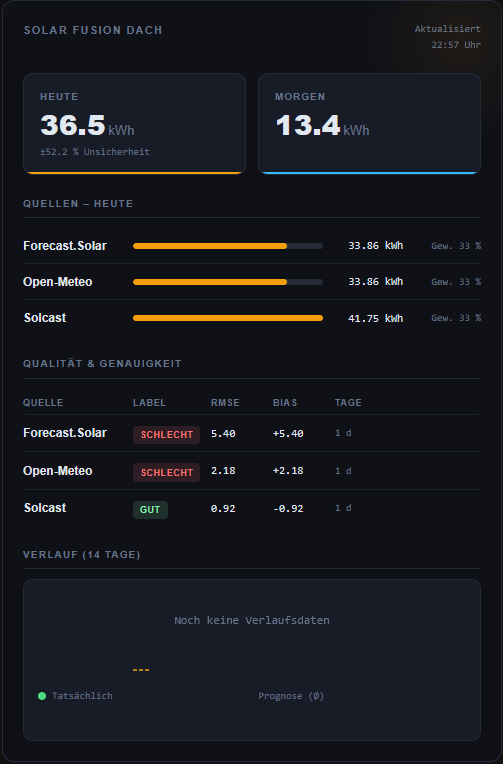
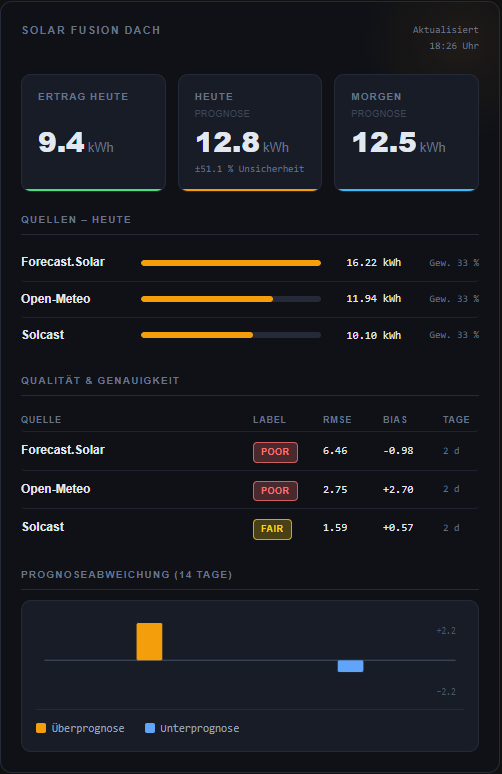
Rework design and chart (#6)

diff --git a/dist/solar-fusion-card.js b/dist/solar-fusion-card.js
@@ -9,15 +9,55 @@
  *
  * Card YAML – only one entity required:
  *   type: custom:solar-fusion-card
- *   entity: sensor.solar_fusion_dach_fused_today
+ *   entity: sensor.solar_fusion_dach_forecast_today
  *   title: Solar Fusion Roof   # optional
  */
 
-const QUALITY_COLORS = {
-  "Exzellent": "#4ade80", "Excellent": "#4ade80",
-  "Gut":       "#86efac", "Good":      "#86efac",
-  "Mittel":    "#facc15", "Fair":      "#facc15",
-  "Schlecht":  "#f87171", "Poor":      "#f87171",
+const QUALITY = {
+  "EXCELLENT": { color: "#4ade80", label: "Excellent" },
+  "GOOD":      { color: "#86efac", label: "Good"      },
+  "FAIR":      { color: "#facc15", label: "Fair"      },
+  "POOR":      { color: "#f87171", label: "Poor"      },
+};
+const QUALITY_ALIAS = {
+  "EXZELLENT": "EXCELLENT",
+  "GUT": "GOOD",
+  "OKAY": "FAIR", "MITTEL": "FAIR",
+  "BAD": "POOR", "SCHLECHT": "POOR",
+};
+
+// Converts a #rrggbb hex color to rgba(r,g,b,alpha)
+function hexRgba(hex, alpha) {
+  const r = parseInt(hex.slice(1, 3), 16);
+  const g = parseInt(hex.slice(3, 5), 16);
+  const b = parseInt(hex.slice(5, 7), 16);
+  return `rgba(${r},${g},${b},${alpha})`;
+}
+
+// Built-in English fallback – used when locale JSON files are unavailable
+const DEFAULT_LOCALE = {
+  "entity_not_found": "Entity not found:",
+  "default_title":    "Solar Fusion",
+  "updated":          "Updated",
+  "time_suffix":      "",
+  "today":            "Today",
+  "tomorrow":         "Tomorrow",
+  "uncertainty":      "% uncertainty",
+  "sources_today":    "Sources – Today",
+  "weight":           "Wgt.",
+  "quality_accuracy": "Quality & Accuracy",
+  "col_source":       "Source",
+  "col_label":        "Label",
+  "col_rmse":         "RMSE",
+  "col_bias":         "Bias",
+  "col_days":         "Days",
+  "history_title":    "Forecast Deviation (14 days)",
+  "no_history":       "No history data yet",
+  "hero_actual":      "Today's Yield",
+  "forecast":         "Forecast",
+  "over_forecast":    "Over-forecast",
+  "under_forecast":   "Under-forecast",
+  "days_short":       "d",
 };
 
 const SOURCE_SHORT = {
@@ -26,12 +66,6 @@ const SOURCE_SHORT = {
   "Solcast PV Forecast":       "Solcast",
 };
 
-// Maps source display name → entity ID suffix for quality sensors
-const SOURCE_ENTITY_SUFFIX = {
-  "Forecast.Solar":            "forecast_solar_rmse",
-  "Open-Meteo Solar Forecast": "open_meteo_solar_forecast_rmse",
-  "Solcast PV Forecast":       "solcast_pv_forecast_rmse",
-};
 
 const STYLES = `
   @import url('https://fonts.googleapis.com/css2?family=DM+Mono:wght@400;500&family=Syne:wght@400;600;700;800&display=swap');
@@ -87,14 +121,15 @@ const STYLES = `
   .updated { font-family: var(--sf-mono); font-size: 10px; color: var(--sf-muted); text-align: right; }
 
   /* Hero */
-  .hero { display: grid; grid-template-columns: 1fr 1fr; gap: 12px; margin-bottom: 20px; }
+  .hero { display: grid; grid-template-columns: repeat(3, 1fr); gap: 12px; margin-bottom: 20px; }
   .hero-card {
     background: var(--sf-surface); border: 1px solid var(--sf-border);
     border-radius: 10px; padding: 14px 16px; position: relative; overflow: hidden;
   }
   .hero-card:hover { border-color: #3a4255; }
   .hero-bar { position: absolute; bottom: 0; left: 0; right: 0; height: 2px; }
-  .hero-label { font-size: 10px; font-weight: 600; letter-spacing: 0.1em; text-transform: uppercase; color: var(--sf-muted); margin-bottom: 6px; }
+  .hero-label { font-size: 10px; font-weight: 600; letter-spacing: 0.1em; text-transform: uppercase; color: var(--sf-muted); margin-bottom: 2px; }
+  .hero-sublabel { font-size: 9px; font-weight: 400; letter-spacing: 0.05em; text-transform: uppercase; color: var(--sf-muted); opacity: 0.5; margin-bottom: 6px; }
   .hero-value { font-size: 28px; font-weight: 800; line-height: 1; }
   .hero-unit { font-size: 13px; font-weight: 400; color: var(--sf-muted); margin-left: 3px; }
   .hero-unc { font-family: var(--sf-mono); font-size: 10px; color: var(--sf-muted); margin-top: 6px; }
@@ -108,7 +143,7 @@ const STYLES = `
   /* Sources */
   .sources { margin-bottom: 20px; }
   .source-row {
-    display: grid; grid-template-columns: minmax(70px, max-content) 1fr 70px 68px;
+    display: grid; grid-template-columns: 110px 1fr 70px 68px;
     align-items: center; gap: 10px; padding: 8px 0; border-bottom: 1px solid #1e2330;
     border-radius: 4px;
   }
@@ -122,12 +157,13 @@ const STYLES = `
   /* Quality table */
   .q-section { margin-bottom: 20px; }
   .q-header, .q-row {
-    display: grid; grid-template-columns: 1fr 60px 50px 50px auto;
+    display: grid; grid-template-columns: 1fr 60px 50px 50px 36px;
     align-items: center; gap: 10px; padding: 7px 0; border-bottom: 1px solid #1e2330;
     border-radius: 4px;
   }
   .q-row:last-child { border-bottom: none; }
   .q-header { font-size: 9px; font-weight: 700; letter-spacing: 0.08em; text-transform: uppercase; color: var(--sf-muted); padding-bottom: 4px; }
+  .q-col-label { text-align: left; }
   .q-name { font-size: 12px; font-weight: 600; white-space: nowrap; }
   .q-val { font-family: var(--sf-mono); font-size: 11px; }
   .q-days { font-family: var(--sf-mono); font-size: 10px; color: var(--sf-muted); }
@@ -138,10 +174,10 @@ const STYLES = `
     background: var(--sf-surface); border: 1px solid var(--sf-border);
     border-radius: 10px; padding: 14px;
   }
-  .spark-wrap svg { width: 100%; height: 60px; display: block; }
-  .legend { display: flex; gap: 20px; margin-top: 12px; align-items: center; }
-  .legend-item { display: flex; align-items: center; gap: 6px; font-size: 10px; color: var(--sf-muted); font-family: var(--sf-mono); white-space: nowrap; }
-  .legend-dot { width: 8px; height: 8px; border-radius: 50%; flex-shrink: 0; }
+  .spark-wrap > svg { width: 100%; height: 80px; display: block; }
+  .legend { display: flex; gap: 20px; margin-top: 14px; padding-top: 10px; border-top: 1px solid var(--sf-border); align-items: center; }
+  .legend-item { display: flex; align-items: center; gap: 6px; font-size: 11px; color: #94a3b8; font-family: var(--sf-mono); white-space: nowrap; }
+  .legend-dot { width: 10px; height: 10px; border-radius: 50%; flex-shrink: 0; }
 
   /* ── Responsive breakpoints via container queries ─────────────────── */
 
@@ -155,9 +191,14 @@ const STYLES = `
     .q-header, .q-row { grid-template-columns: 1fr 58px 46px 46px; }
   }
 
+  /* Narrow hero: 3 → 2 columns */
+  @container (max-width: 360px) {
+    .hero { grid-template-columns: 1fr 1fr; }
+  }
+
   /* Very narrow (~260 px): stack hero, drop kWh + bias columns */
   @container (max-width: 260px) {
-    .hero          { grid-template-columns: 1fr; }
+    .hero          { grid-template-columns: 1fr 1fr; }
     .hero-value    { font-size: 22px; }
     .source-kwh    { display: none; }
     .source-row    { grid-template-columns: minmax(0, 1fr) 1fr; }
@@ -192,14 +233,14 @@ class SolarFusionCard extends HTMLElement {
 
   // Returns a translated string, falling back to the key itself.
   _t(key) {
-    return this._locale[key] ?? key;
+    return this._locale[key] ?? DEFAULT_LOCALE[key] ?? key;
   }
 
   setConfig(config) {
     if (!config.entity) throw new Error("'entity' is required");
     this._config = config;
     // Derive prefix: "sensor.solar_fusion_dach_fused_today" → "sensor.solar_fusion_dach"
-    this._prefix = config.entity.replace(/_fused_today$/, "");
+    this._prefix = config.entity.replace(/_forecast_today$/, "");
     this._render();
   }
 
@@ -232,11 +273,6 @@ class SolarFusionCard extends HTMLElement {
     });
   }
 
-  _qualityEntity(sourceName) {
-    const suffix = SOURCE_ENTITY_SUFFIX[sourceName];
-    return suffix ? `${this._prefix}_${suffix}` : null;
-  }
-
   _fmt(v, decimals = 2) {
     if (v === null || v === undefined) return "—";
     return Number(v).toFixed(decimals);
@@ -251,37 +287,54 @@ class SolarFusionCard extends HTMLElement {
     const points = Object.entries(byDate)
       .sort(([a], [b]) => a.localeCompare(b))
       .slice(-14)
-      .map(([, v]) => ({
-        forecast: v.forecasts.reduce((a, b) => a + b, 0) / (v.forecasts.length || 1),
-        actual: v.actual,
+      .map(([date, v]) => ({
+        date,
+        deviation: v.forecasts.reduce((a, b) => a + b, 0) / (v.forecasts.length || 1) - v.actual,
       }));
 
-    if (points.length < 2) {
+    if (points.length < 1) {
       return `<text x="50%" y="50%" text-anchor="middle" fill="#64748b"
         font-size="11" font-family="DM Mono,monospace">${this._t("no_history")}</text>`;
     }
 
-    const W = 400, H = 60, P = 8;
-    const maxV = Math.max(...points.map(p => Math.max(p.forecast, p.actual)), 0.1);
-    const sx = i => P + (i / (points.length - 1)) * (W - P * 2);
-    const sy = v => H - P - (v / maxV) * (H - P * 2);
-    const fPath = points.map((p, i) => `${i ? "L" : "M"}${sx(i).toFixed(1)},${sy(p.forecast).toFixed(1)}`).join(" ");
-    const aPath = points.map((p, i) => `${i ? "L" : "M"}${sx(i).toFixed(1)},${sy(p.actual).toFixed(1)}`).join(" ");
-    const dots  = points.map((p, i) =>
-      `<circle cx="${sx(i).toFixed(1)}" cy="${sy(p.actual).toFixed(1)}" r="2.5" fill="#4ade80"/>`
-    ).join("");
-    return `
-      <path d="${fPath}" stroke="#f59e0b" stroke-width="1.5" fill="none" stroke-dasharray="4 2" opacity="0.7"/>
-      <path d="${aPath}" stroke="#4ade80" stroke-width="2" fill="none"/>
-      ${dots}`;
+    const W = 400, H = 80;
+    const CT = 6, CB = 62;           // chart area top / bottom y
+    const midY = (CT + CB) / 2;      // zero line y = 34
+    const maxDev = Math.max(...points.map(p => Math.abs(p.deviation)), 0.5);
+    const scale = (midY - CT) / maxDev;
+
+    const n = points.length;
+    const slotW = (W - 24) / n;
+    const barW = Math.max(3, Math.min(slotW * 0.75, 24));
+
+    const bars = points.map((p, i) => {
+      const cx  = 12 + i * slotW + slotW / 2;
+      const h   = Math.abs(p.deviation) * scale;
+      const y   = p.deviation >= 0 ? midY - h : midY;
+      const col = p.deviation >= 0 ? "#f59e0b" : "#60a5fa";
+      return `<rect x="${(cx - barW / 2).toFixed(1)}" y="${y.toFixed(1)}" width="${barW.toFixed(1)}" height="${Math.max(h, 1).toFixed(1)}" fill="${col}" rx="1.5"/>`;
+    }).join("");
+
+    const zero = `<line x1="8" y1="${midY}" x2="${W - 8}" y2="${midY}" stroke="#3a4255" stroke-width="1"/>`;
+
+    const scaleLabels = `
+      <text x="${W - 8}" y="${CT + 8}" text-anchor="end" fill="#4b5563" font-size="8" font-family="DM Mono,monospace">+${maxDev.toFixed(1)}</text>
+      <text x="${W - 8}" y="${CB - 2}" text-anchor="end" fill="#4b5563" font-size="8" font-family="DM Mono,monospace">−${maxDev.toFixed(1)}</text>`;
+
+    const fmt = d => d.slice(5).replace("-", "/");
+    const dateLabels = `
+      <text x="12" y="${H - 4}" fill="#4b5563" font-size="8" font-family="DM Mono,monospace">${fmt(points[0].date)}</text>
+      ${points.length > 1 ? `<text x="${W - 12}" y="${H - 4}" text-anchor="end" fill="#4b5563" font-size="8" font-family="DM Mono,monospace">${fmt(points[points.length - 1].date)}</text>` : ""}`;
+
+    return zero + bars + scaleLabels + dateLabels;
   }
 
   _render() {
     if (!this._config || !this._hass) return;
 
-    const entityId   = this._config.entity;
-    const tomorrowId = `${this._prefix}_fused_tomorrow`;
-    const snapshotId = `${this._prefix}_morning_snapshot`;
+    const entityId   = this._config.entity;  // forecast_today – provides all attributes
+    const tomorrowId = `${this._prefix}_forecast_tomorrow`;
+    const actualId   = `${this._prefix}_diagnostics_pv_daily_production`;
 
     const mainState = this._hass.states[entityId];
     if (!mainState) {
@@ -319,11 +372,18 @@ class SolarFusionCard extends HTMLElement {
           <div class="updated">${this._t("updated")}<br>${updatedStr}${this._t("time_suffix")}</div>
         </div>
 
-        <!-- Hero: today + tomorrow -->
+        <!-- Hero: actual + today + tomorrow -->
         <div class="hero">
+          <div class="hero-card" data-entity="${actualId}">
+            <div class="hero-bar" style="background:#4ade80"></div>
+            <div class="hero-label">${this._t("hero_actual")}</div>
+            <div class="hero-sublabel" style="visibility:hidden">.</div>
+            <div class="hero-value">${this._fmt(parseFloat(this._hass.states[actualId]?.state) || null, 1)}<span class="hero-unit">kWh</span></div>
+          </div>
           <div class="hero-card" data-entity="${entityId}">
             <div class="hero-bar" style="background:var(--sf-accent)"></div>
             <div class="hero-label">${this._t("today")}</div>
+            <div class="hero-sublabel">${this._t("forecast")}</div>
             <div class="hero-value">${this._fmt(todayKwh, 1)}<span class="hero-unit">kWh</span></div>
             ${uncertainty != null
               ? `<div class="hero-unc">±${this._fmt(uncertainty, 1)} ${this._t("uncertainty")}</div>`
@@ -332,6 +392,7 @@ class SolarFusionCard extends HTMLElement {
           <div class="hero-card" data-entity="${tomorrowId}">
             <div class="hero-bar" style="background:var(--sf-accent2)"></div>
             <div class="hero-label">${this._t("tomorrow")}</div>
+            <div class="hero-sublabel">${this._t("forecast")}</div>
             <div class="hero-value">${this._fmt(tomorrowKwh, 1)}<span class="hero-unit">kWh</span></div>
           </div>
         </div>
@@ -340,18 +401,16 @@ class SolarFusionCard extends HTMLElement {
         ${sourceList.length ? `
         <div class="sources">
           <div class="section-title">${this._t("sources_today")}</div>
-          ${sourceList.map(([, s]) => {
-            const qEntity = this._qualityEntity(s.name);
-            return `
-            <div class="source-row"${qEntity ? ` data-entity="${qEntity}"` : ""}>
+          ${sourceList.map(([, s]) => `
+            <div class="source-row" data-entity="${entityId}">
               <div class="source-name">${SOURCE_SHORT[s.name] || s.name}</div>
               <div class="bar-wrap">
                 <div class="bar" style="width:${((s.today_kwh || 0) / maxKwh * 100).toFixed(1)}%"></div>
               </div>
               <div class="source-kwh">${this._fmt(s.today_kwh, 2)} kWh</div>
               <div class="source-weight">${s.weight != null ? this._t("weight") + " " + this._fmt(s.weight * 100, 0) + " %" : "—"}</div>
-            </div>`;
-          }).join("")}
+            </div>`
+          ).join("")}
         </div>` : ""}
 
         <!-- Quality table -->
@@ -359,18 +418,20 @@ class SolarFusionCard extends HTMLElement {
         <div class="q-section">
           <div class="section-title">${this._t("quality_accuracy")}</div>
           <div class="q-header">
-            <span>${this._t("col_source")}</span><span>${this._t("col_label")}</span><span>${this._t("col_rmse")}</span><span class="q-col-bias">${this._t("col_bias")}</span><span class="q-col-days">${this._t("col_days")}</span>
+            <span>${this._t("col_source")}</span><span class="q-col-label">${this._t("col_label")}</span><span>${this._t("col_rmse")}</span><span class="q-col-bias">${this._t("col_bias")}</span><span class="q-col-days">${this._t("col_days")}</span>
           </div>
           ${sourceList.map(([, s]) => {
-            const color   = QUALITY_COLORS[s.quality_label] || "#94a3b8";
+            const key    = (s.quality_label || "").toUpperCase();
+            const q      = QUALITY[QUALITY_ALIAS[key] || key];
+            const color  = q?.color || "#94a3b8";
+            const qlabel = q?.label || s.quality_label;
             const bias    = s.bias_kwh != null
               ? (s.bias_kwh > 0 ? "+" : "") + this._fmt(s.bias_kwh, 2) : "—";
-            const qEntity = this._qualityEntity(s.name);
             return `
-            <div class="q-row"${qEntity ? ` data-entity="${qEntity}"` : ""}>
+            <div class="q-row" data-entity="${entityId}">
               <span class="q-name">${SOURCE_SHORT[s.name] || s.name}</span>
-              <span>${s.quality_label
-                ? `<span class="badge" style="background:${color}22;color:${color}">${s.quality_label}</span>`
+              <span class="q-col-label">${s.quality_label
+                ? `<span class="badge" style="background:${hexRgba(color,0.25)};border:1px solid ${hexRgba(color,0.75)};color:${color}">${qlabel}</span>`
                 : "—"}</span>
               <span class="q-val">${this._fmt(s.rmse_kwh, 2)}</span>
               <span class="q-val q-val-bias">${bias}</span>
@@ -382,19 +443,16 @@ class SolarFusionCard extends HTMLElement {
         <!-- Sparkline / history -->
         <div>
           <div class="section-title">${this._t("history_title")}</div>
-          <div class="spark-wrap" data-entity="${snapshotId}">
+          <div class="spark-wrap">
             <svg viewBox="0 0 400 60" preserveAspectRatio="none">
               ${this._sparkline(history)}
             </svg>
             <div class="legend">
               <div class="legend-item">
-                <div class="legend-dot" style="background:#4ade80"></div>${this._t("legend_actual")}
+                <div class="legend-dot" style="background:#f59e0b;border-radius:2px"></div>${this._t("over_forecast")}
               </div>
               <div class="legend-item">
-                <svg width="16" height="8">
-                  <line x1="0" y1="4" x2="16" y2="4" stroke="#f59e0b" stroke-width="1.5" stroke-dasharray="4 2"/>
-                </svg>
-                ${this._t("legend_forecast")}
+                <div class="legend-dot" style="background:#60a5fa;border-radius:2px"></div>${this._t("under_forecast")}
               </div>
             </div>
           </div>
